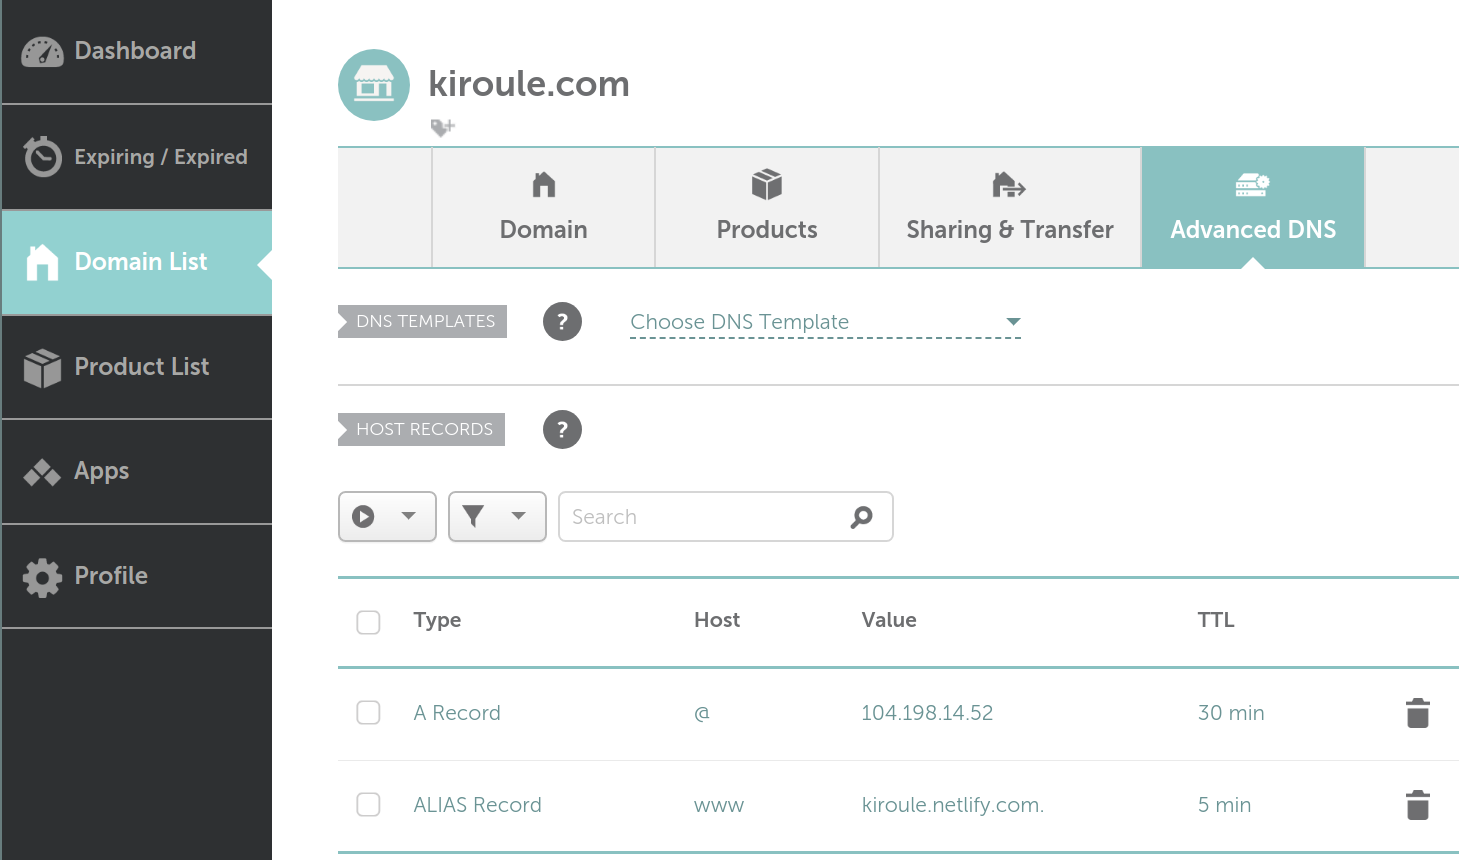
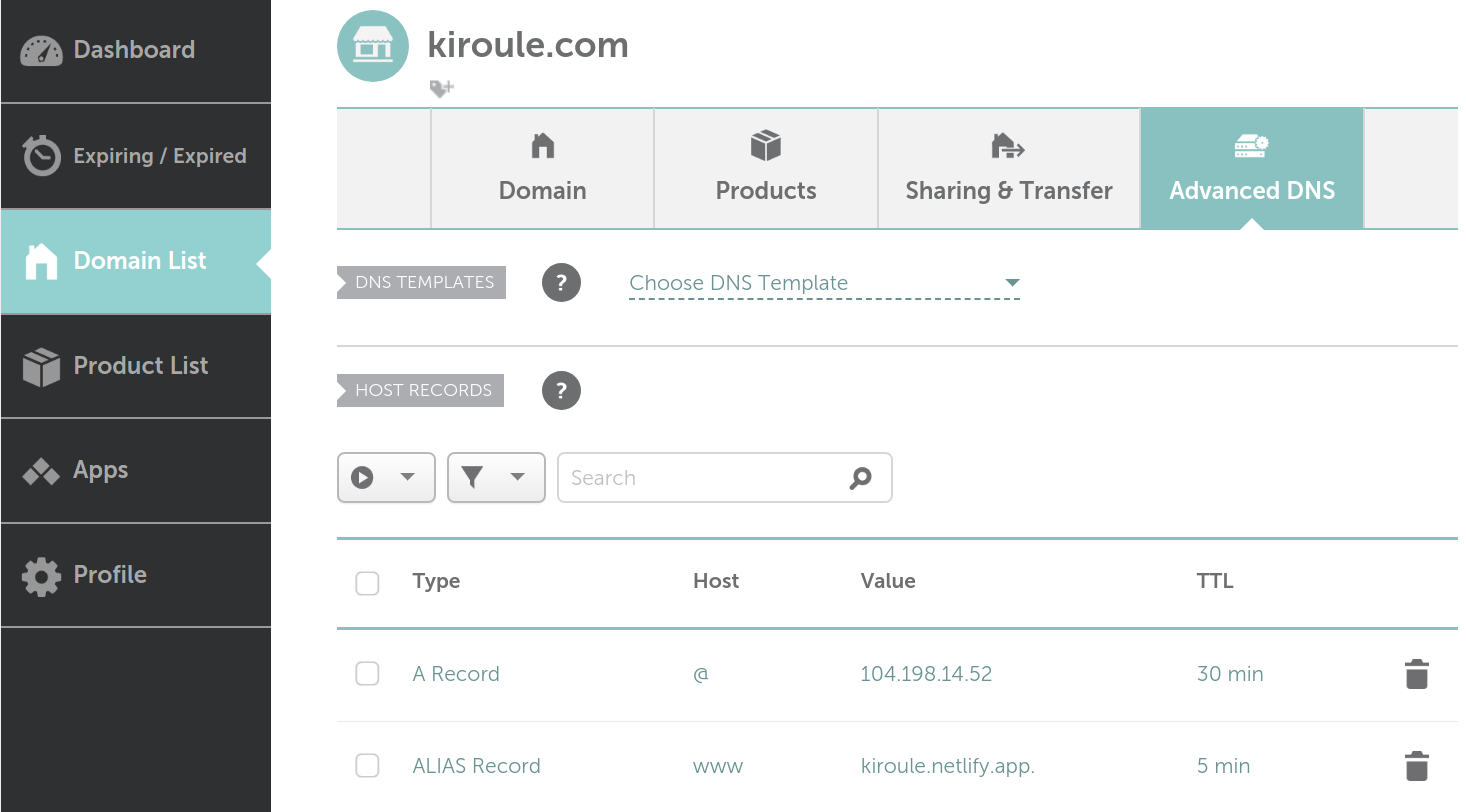
Update configure-custom-domain-and-https-in-netlify.md

diff --git a/content/article/configure-custom-domain-and-https-in-netlify.md b/content/article/configure-custom-domain-and-https-in-netlify.md
@@ -11,25 +11,52 @@ In the [previous post](https://www.kiroule.com/article/start-blogging-with-githu
 
 <!--more-->
 
-When you deploy for the first time on Netlify, your full site name will include the `netlify.app` domain. Then you can change the randomly generated subdomain name to the subdomain you want, e.g., `awesome-mclean-11186c.netlify.app` to `kiroule.netlify.app` and continue as is.  But it's evident that for your personal website, you should use a custom domain, which helps a lot in promoting yourself as a brand and improving credibility. Also, owning a custom domain comes with the option of having personalized email addresses, e.g., `igor@kiroule.com`, which I used on my About page.
+When you deploy for the first time on Netlify, a Netlify subdomain will be assigned to your site, for example, `awesome-mclean-11186c.netlify.app`. Then you can change the randomly generated part in the subdomain to the site name you want, like adjusting `awesome-mclean-11186c.netlify.app` to `kiroule.netlify.app`, and continue as is.  But it's evident that for your personal website, you should use a custom domain, which helps a lot in promoting yourself as a brand and improving credibility. Also, owning a domain comes with the option of having personalized email addresses, for example, `igor@kiroule.com`, which I put on my About page.
 
-As for HTTPS, even if it's your blog where you do not collect any sensitive information, having a secure connection gives the perception of you as a trusted source. Other than that, it also can slightly boost your Google search engine rankings. 
+As for HTTPS, even if it's your blog where you do not collect any sensitive information, having a secure connection gives the perception of you as a trusted source. Other than that, it also can slightly improve your Google search engine rankings. 
 
 This tutorial has the following tasks to complete:
 
-1. [Configure DNS Host Records](#configure-dns-host-records)
+1. [Configure DNS Records](#configure-dns-records)
 2. [Set up Custom Domain](#set-up-custom-domain)
 3. [Update Base URL](#update-base-url)
 4. [Issue SSL Certificate](#issue-ssl-certificate)
 
-The only condition here is that you take care to purchase a domain name in advance. There are several domain registrars to choose from, e.g.,  Bluehost, GoDaddy or Namecheap. As for Netlify, they also sell and register domain names:
+The only prerequisite here is that you take care to purchase a domain name in advance. There are a few domain registrars to choose from (e.g.,  Bluehost, GoDaddy or Namecheap). As for Netlify, they also sell and register domain names:
 
 ![Namecheap Choose Domain](/img/content/article/configure-custom-domain-and-https-in-netlify/netlify-choose-domain.png)
 
-### Configure DNS Host Records
+### Configure DNS Records
+DNS (Domain Name System) records are rules that define how domain name servers handle traffic to domains and subdomains. Updating DNS records is a necessary step, once you obtain your custom domain. In our case, this will allow you to connect the domain to Netlify hosting. Since I bought `kiroule.com` domain name from Namecheap, it's shown here how to do that in the Namecheap account, but the same configuration procedure can be done with any domain name registrar.
+
+After signing in to Namecheap, select `Domain List` from the left sidebar and click on the `Manage` button:
+
 ![Namecheap Domain List](/img/content/article/configure-custom-domain-and-https-in-netlify/namecheap-domain-list.png)
 
+In the `Details` view, choose the `Advanced DNS` tab:
+ 
 ![Namecheap Domain View](/img/content/article/configure-custom-domain-and-https-in-netlify/namecheap-domain-view.png)
+
+In the `Host Records` section, add `A Record` and `ALIAS Record`entries.
+
+`A Record` is an address record, which maps host names to their IPv4 addresses. To configure it, use the following settings:
+```plaintext
+Type: A Record
+Host: @
+Value: 104.198.14.52
+TTL: 30 min
+```
+Here, the `104.198.14.52`  value is Netlify's load balancer IP address.
+
+`ALIAS Record` is a virtual host record, which allows pointing one domain name to another one. To configure it, use the following settings:
+```plaintext
+Type: ALIAS Record
+Host: www
+Value: [name-of-your-site].netlify.app
+TTL: 5 min
+```
+
+`TTL` (Time to live) is a propagation time, which defines how fast a DNS record update is pushed to DNS servers around the world.   
 
 ![Namecheap Domain Advanced DNS](/img/content/article/configure-custom-domain-and-https-in-netlify/namecheap-domain-advanced-dns.png)
 
